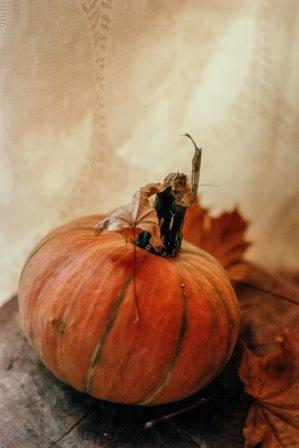
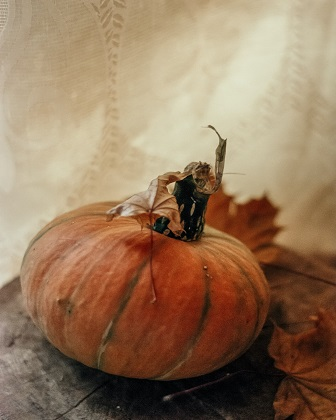
updated images

diff --git a/index.html b/index.html
@@ -45,7 +45,7 @@
         </Section>
             <Section class="aktivity">
              <article class="event">
-                    <img src="img/pumpa.jpg" alt="Halloweenjam-2021">
+                    <img src="img/Pumpa.jpg" alt="Halloweenjam-2021">
                     <h1>Halloweenjam 2021</h1>
                     <p>Nu kan du anmäla dig till årets Halloweenjam. Det kommer finnas olika stationer och utmaningar att ta sig an för både nybörjare och avancerade.</p>
                     <a href="#" class="read"><b>Läs mer om Halloweenjam</b></a>

diff --git a/css/style.css b/css/style.css
@@ -94,7 +94,7 @@ body{
 .wrapper section.aktivity article img{
     width: 100%;
     max-width:  250px;
-    max-height: 310px;
+    max-height: 320px;
 }
 .wrapper section.aktivity article h1{
     margin-top: 15px;
